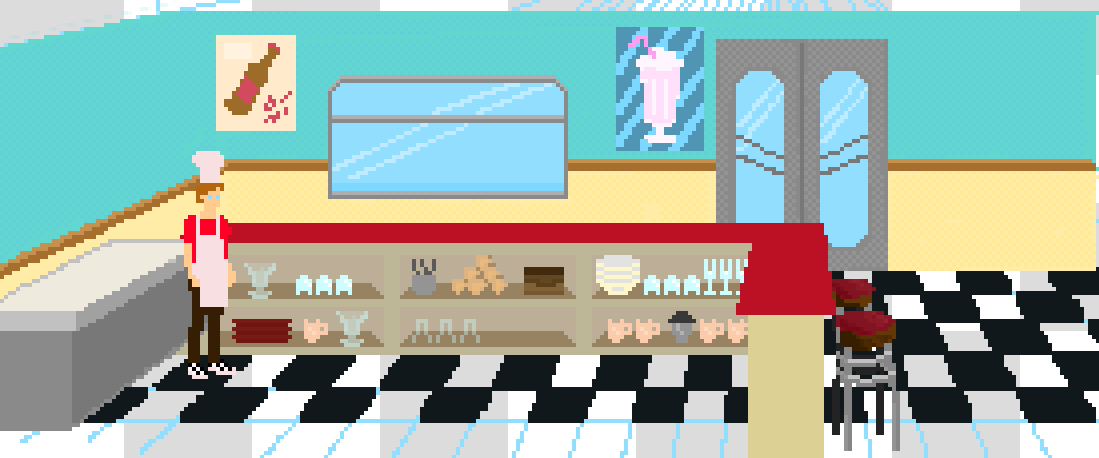
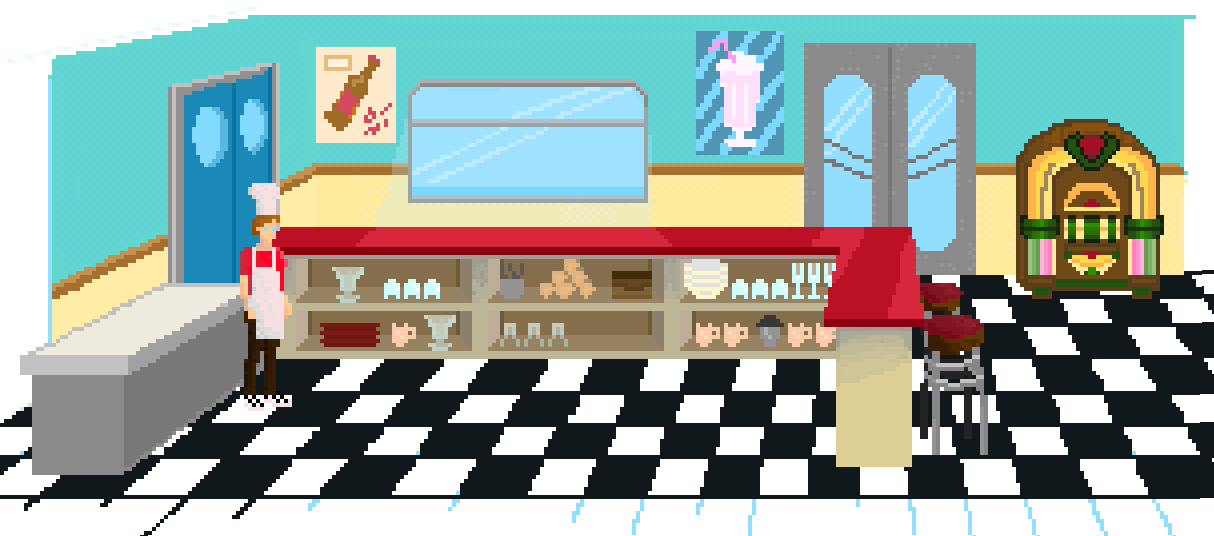
Pause scene and resume it with changing data

diff --git a/src/scenes/MainScene.ts b/src/scenes/MainScene.ts
@@ -2,12 +2,13 @@ import Phaser from 'phaser'
 import {DEFAULT_HEIGHT, DEFAULT_WIDTH} from '~/main'
 import {ARROW, BACKGROUND} from '~/const/Assets'
 import Toast from '~/objects/Toast'
+import {SPINNING_SCENE} from "~/scenes/SpinningScene";
 
 export const MAIN_SCENE = 'MainScene'
 export default class MainScene extends Phaser.Scene {
 
-    readonly START_X: number = DEFAULT_WIDTH * 0.15
-    readonly START_Y: number = DEFAULT_HEIGHT * 0.6
+    readonly START_X: number = DEFAULT_WIDTH * 0.22
+    readonly START_Y: number = DEFAULT_HEIGHT * 0.5
 
     private startingPoint!: Phaser.GameObjects.Image
     private toast!: Toast
@@ -20,10 +21,15 @@ export default class MainScene extends Phaser.Scene {
         this.cameras.main.setBounds(0, 0, DEFAULT_WIDTH, DEFAULT_HEIGHT)
 
         this.add.image(DEFAULT_WIDTH/2, DEFAULT_HEIGHT/2, BACKGROUND)
-            .setScale(2,2)
+            .setScale(1.6,1.6)
         this.startingPoint = this.add.image(this.START_X, this.START_Y, ARROW)
             .setScale(0.4, 0.4)
         this.toast = new Toast(this).setVisible(false)
+
+        this.events.on('resume', (system, data: Toast) => {
+            console.log('Resumed with ', data);
+            this.toast = data;
+        })
     }
 
     update(time: number, delta: number) {
@@ -51,6 +57,10 @@ export default class MainScene extends Phaser.Scene {
                         if (progress == 1) {
                             camera.startFollow(this.toast)
                             this.toast.toss(cursorX, cursorY)
+                            setTimeout(() => {
+                                this.scene.pause();
+                                this.scene.launch(SPINNING_SCENE, this.toast);
+                            }, 700)
                         }
                     }, this)
 

diff --git a/src/scenes/SpinningScene.ts b/src/scenes/SpinningScene.ts
@@ -1,0 +1,25 @@
+import Phaser from 'phaser'
+import {DEFAULT_HEIGHT, DEFAULT_WIDTH} from '~/main'
+import {BACKGROUND} from '~/const/Assets'
+import {MAIN_SCENE} from "~/scenes/MainScene";
+import Toast from "~/objects/Toast";
+
+export const SPINNING_SCENE = 'SpinningScene'
+export default class SpinningScene extends Phaser.Scene {
+
+    constructor() {
+        super({ key: SPINNING_SCENE })
+    }
+
+    create(toast: Toast) {
+        console.log('RUN with ', toast)
+        this.add.image(DEFAULT_WIDTH/2, DEFAULT_HEIGHT/2, BACKGROUND)
+            .setScale(1,1)
+
+        this.input.once('pointerdown', () => {
+            toast.reverseSpin()
+            this.scene.resume(MAIN_SCENE, toast)
+            this.scene.stop()
+        }, this);
+    }
+}

diff --git a/src/scenes/PreloadScene.ts b/src/scenes/PreloadScene.ts
@@ -46,6 +46,9 @@ export default class PreloadScene extends Phaser.Scene {
             import('./MainScene').then(mainScene => {
                 this.scene.add(mainScene.MAIN_SCENE, mainScene.default, true)
             })
+            import('./SpinningScene').then(spinningScene => {
+                this.scene.add(spinningScene.SPINNING_SCENE, spinningScene.default, false)
+            })
         } else {
             console.log('The MainScene class will not even be loaded by the browser')
         }

diff --git a/src/main.ts b/src/main.ts
@@ -1,5 +1,6 @@
 import Phaser from 'phaser'
 import PreloadScene from "~/scenes/PreloadScene";
+import SpinningScene from "~/scenes/SpinningScene";
 
 export const DEFAULT_WIDTH = 1920
 export const DEFAULT_HEIGHT = 1080

diff --git a/src/objects/Toast.ts b/src/objects/Toast.ts
@@ -22,4 +22,8 @@ export default class Toast extends Phaser.Physics.Arcade.Image {
     land() {
         this.setAngularVelocity(0)
     }
+
+    reverseSpin() {
+        this.setAngularVelocity(-300)
+    }
 }
